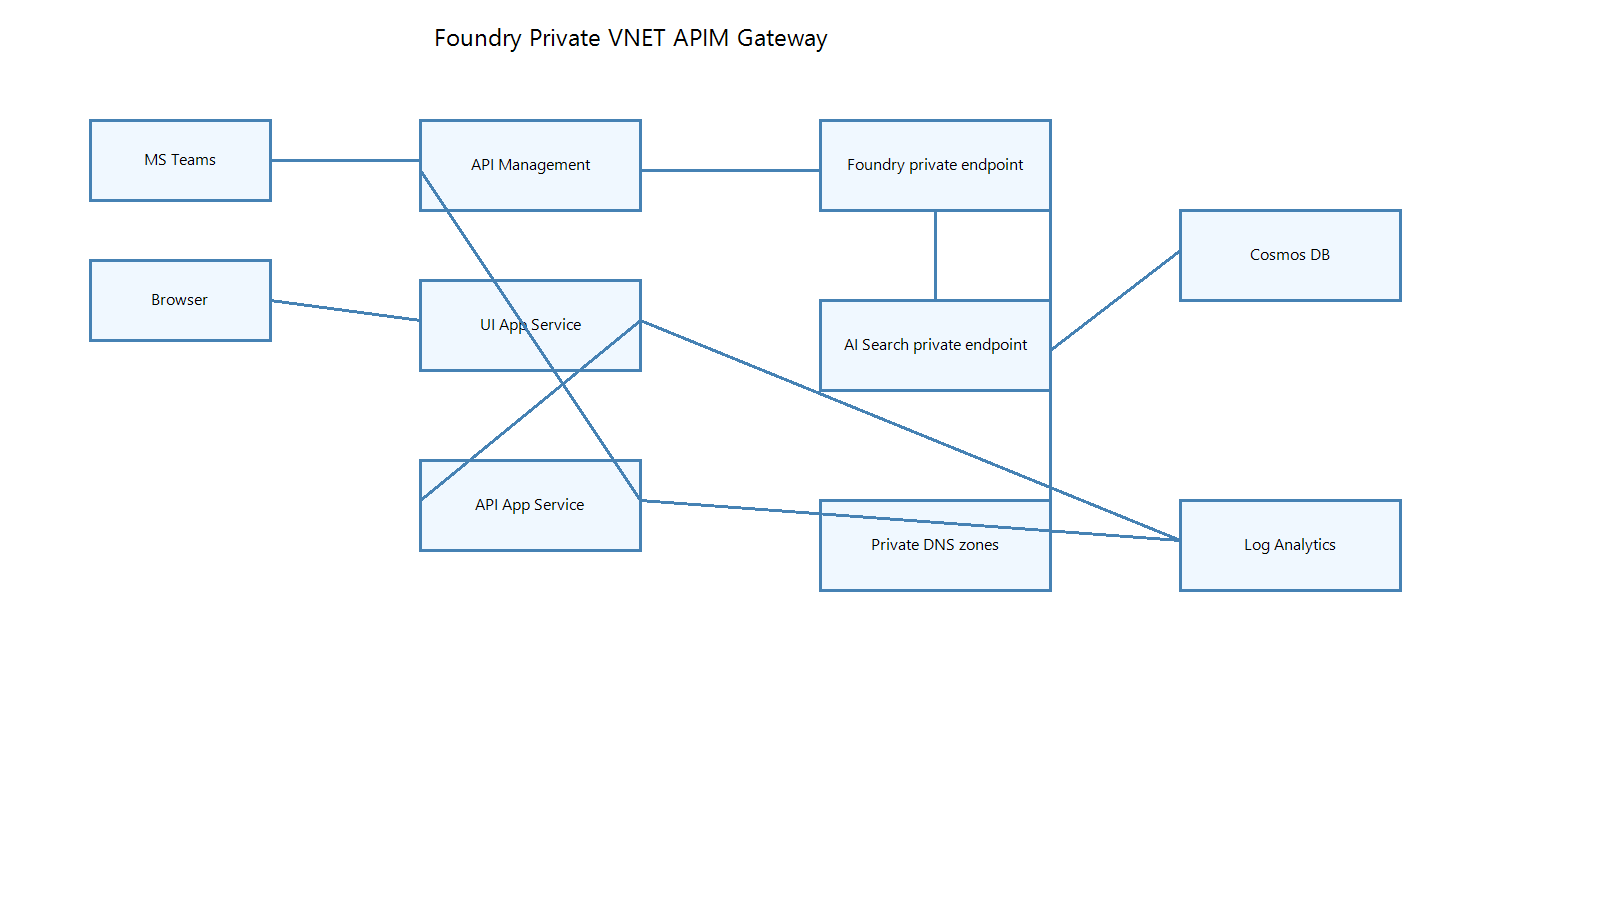
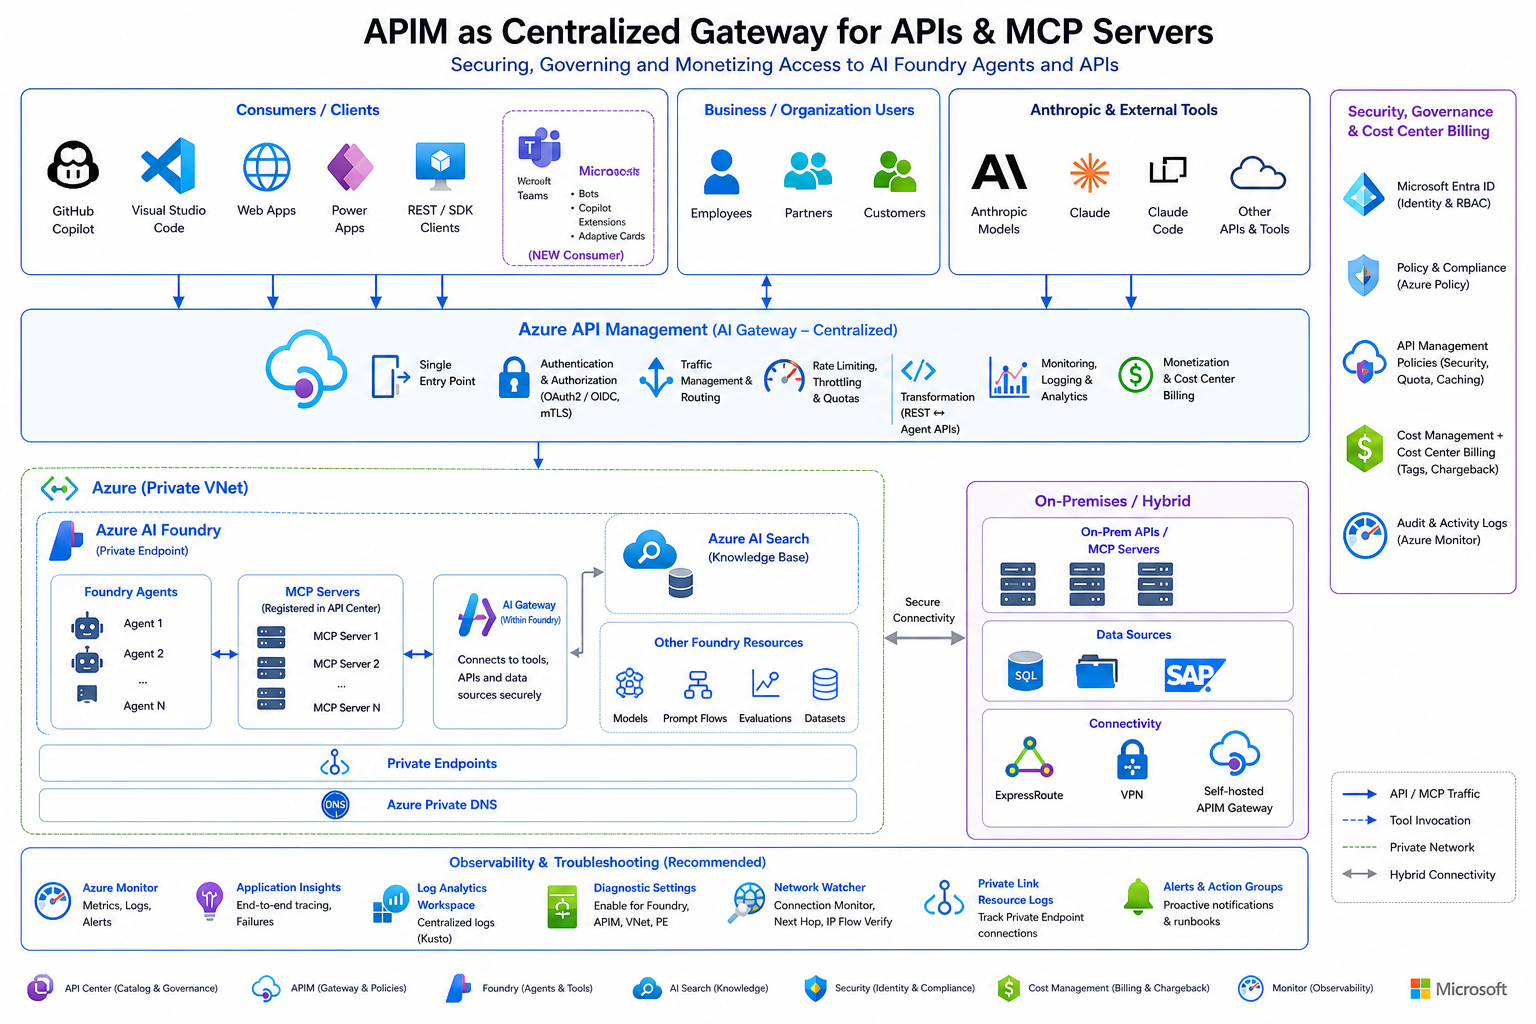
readme

diff --git a/README.md b/README.md
@@ -11,7 +11,7 @@ The main design goal is to place APIM in front of Foundry so gateway concerns ar
 - apply APIM import, routing, product, policy, and subscription controls in one place
 - let the backend call APIM-managed routes instead of calling Foundry directly
 
-The architecture diagram is in [docs/architecture.png](docs/architecture.png).
+![Architecture](docs/architecture.png)
 
 ## Live URLs
 
@@ -69,6 +69,59 @@ Main workflow:
 
 That script runs Terraform init, validate, plan, and apply, then executes Search cloning, Foundry agent cloning, APIM configuration, Teams package generation, and sample prompt tests.
 
+## GitHub Actions Setup
+
+The GitHub Actions deployment path is already wired for OpenID Connect with a user-assigned managed identity, so no client secret is required.
+
+Provisioned Azure identity:
+
+- identity name: `gha-foundry-privatevnet-oidc`
+- client id: `b01a1a97-faef-4d58-8a9a-764d0b2697ec`
+- tenant id: `b158173c-91f6-4f99-b5e9-aa9bcb463863`
+- subscription id: `86b37969-9445-49cf-b03f-d8866235171c`
+
+Federated credentials configured on that identity:
+
+- `repo:csdmichael/FoundryPrivateVNET-APIM-Gateway:ref:refs/heads/main`
+- `repo:csdmichael/FoundryPrivateVNET-APIM-Gateway:environment:dev`
+- `repo:csdmichael/FoundryPrivateVNET-APIM-Gateway:environment:prod`
+
+Azure RBAC granted to that identity:
+
+- `Contributor` on resource group `ai-myaacoub`
+- `Azure AI Developer` on `foundryprivatevnet`
+- `Azure AI Developer` on `001-ai-poc`
+
+Repository secrets configured in `csdmichael/FoundryPrivateVNET-APIM-Gateway`:
+
+| Secret | Value |
+|--------|-------|
+| `AZURE_CLIENT_ID` | `b01a1a97-faef-4d58-8a9a-764d0b2697ec` |
+| `AZURE_TENANT_ID` | `b158173c-91f6-4f99-b5e9-aa9bcb463863` |
+| `AZURE_SUBSCRIPTION_ID` | `86b37969-9445-49cf-b03f-d8866235171c` |
+| `API_WEBAPP_NAME` | `foundry-privatevnet-api` |
+| `UI_WEBAPP_NAME` | `foundry-privatevnet-ui` |
+| `APP_API_BASE_URL` | `https://apim-poc-my.azure-api.net/foundry-privatevnet-app/api` |
+
+GitHub environments expected by the workflow:
+
+- `dev`
+- `prod`
+
+Recommended operator flow:
+
+1. Push to `main` or run the `deploy` workflow manually from GitHub Actions.
+2. Let the `terraform` job finish before checking the app deployments.
+3. Validate `https://foundry-privatevnet-api.azurewebsites.net/api/health`.
+4. Validate `https://foundry-privatevnet-ui.azurewebsites.net`.
+5. Validate the APIM gateway path `https://apim-poc-my.azure-api.net/foundry-privatevnet-app/api`.
+
+Notes:
+
+- The `terraform` job uses GitHub environments, which is why the managed identity has environment-scoped federated credentials for `dev` and `prod` in addition to the branch-scoped credential for `main`.
+- The UI deployment job publishes the Angular build output from `ui/www`, and the App Service is configured to serve that static bundle through `pm2`.
+- The sample prompt smoke test runs through APIM, not directly against the backend App Service.
+
 ## APIM Configuration
 
 The backend OpenAPI surface is imported into APIM and then bound to the deployed API backend.
@@ -104,12 +157,61 @@ Generated packages:
 
 Before publishing to Teams, replace manifest placeholders so the package points at your APIM hostname and keep `validDomains` aligned to that gateway host.
 
+## Demo Script
+
+Use this sequence for a live walkthrough after the GitHub Actions deployment completes:
+
+1. Open the UI at `https://foundry-privatevnet-ui.azurewebsites.net` and show the two retained use cases.
+2. Open the API health endpoint at `https://foundry-privatevnet-api.azurewebsites.net/api/health`.
+3. Open the APIM surface at `https://apim-poc-my.azure-api.net/foundry-privatevnet-app/api/health` to show the gateway hop.
+4. Run the packaged smoke tests:
+
+```powershell
+$env:APP_API_BASE_URL = "https://apim-poc-my.azure-api.net/foundry-privatevnet-app/api"
+./scripts/test-sample-prompts.ps1
+```
+
+5. Use prompts from [Prompts.txt](Prompts.txt) to demo both retained agents.
+6. Show the generated Teams packages under `Agent-Packages/`.
+
+## Packaging Agents For Teams And Other Clients
+
+This repo keeps APIM as the only public ingress. Keep that pattern when you publish the agents to Teams or any other client shell.
+
+Best practices:
+
+- Route every client-facing manifest, shortcut, or launcher to APIM, not directly to Foundry or the backend App Service.
+- Keep `validDomains`, privacy URLs, terms URLs, and any web endpoint metadata aligned to the APIM hostname.
+- Keep agent-specific routes stable in APIM and version them there instead of hardcoding backend URLs into client packages.
+- Repackage the client manifests after each APIM hostname or path change.
+- Prefer one package per user-facing agent so permissions, icons, names, and rollout can be managed independently.
+
+Teams packaging steps:
+
+1. Update the manifest in `Agent-Packages/<AgentName>/manifest.json`.
+2. Keep `developer.websiteUrl`, `developer.privacyUrl`, `developer.termsOfUseUrl`, and `validDomains` set to `https://apim-poc-my.azure-api.net`.
+3. If you add bot, tab, message extension, or Copilot endpoints later, point those URLs to the APIM route for that agent rather than to `azurewebsites.net`.
+4. Rebuild the package with:
+
+```powershell
+./scripts/package-teams-agents.ps1
+```
+
+5. Upload the resulting zip from `Agent-Packages/<AgentName>/<AgentName>.zip` into Teams admin center, the Teams developer portal, or your target distribution workflow.
+
+Adapting the same agent for other platforms:
+
+1. Keep the manifest or app configuration client-specific, but keep the backend route APIM-specific.
+2. Expose only the APIM route that corresponds to the intended agent, for example `https://apim-poc-my.azure-api.net/foundry-privatevnet-app/api` plus the agent path managed by APIM.
+3. Mirror the same hostname allowlist policy used in Teams packages.
+4. Treat APIM as the place for auth, policy, throttling, subscriptions, and backend rewrites so each client package stays thin.
+
 ## Testing
 
 Run sample prompts against a deployed API:
 
 ```powershell
-$env:APP_API_BASE_URL = "https://ai-search-agent-api.azurewebsites.net/api"
+$env:APP_API_BASE_URL = "https://apim-poc-my.azure-api.net/foundry-privatevnet-app/api"
 ./scripts/test-sample-prompts.ps1
 ```
 